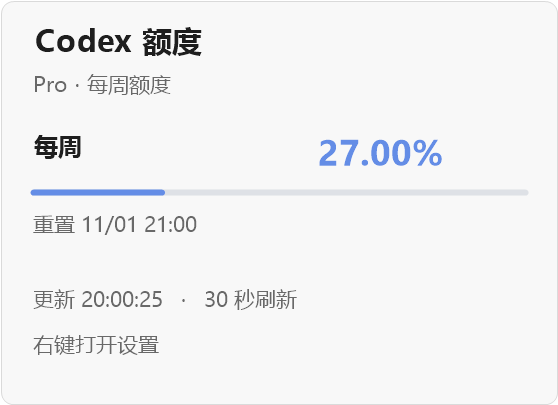
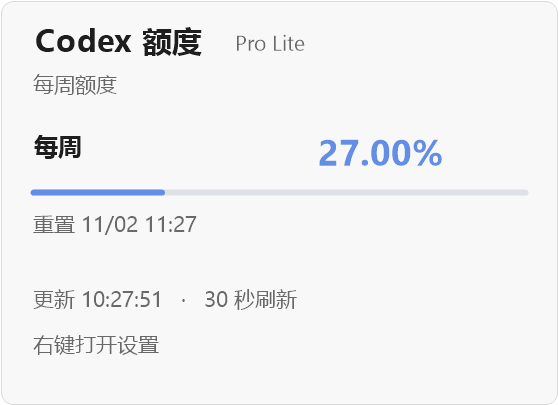
Release native quota bar 0.2.2

diff --git a/scripts/github-release.py b/scripts/github-release.py
@@ -1,6 +1,6 @@
 """Publish a frozen tag and assets via existing Git credential helper; never logs credentials.
 
-Usage: python scripts/github-release.py v0.2.1 <commit> <setup> <zip> <sha256-file>
+Usage: python scripts/github-release.py v0.2.2 <commit> <setup> <zip> <sha256-file>
 The tag must already exist on origin. Does not overwrite a published release.
 """
 import json
@@ -16,7 +16,7 @@ REPO = "SaturdayF/codex-quota-bar"
 
 def main():
     tag, commit, *paths = sys.argv[1:]
-    if tag != "v0.2.1":
+    if tag != "v0.2.2":
         raise RuntimeError("Only the current native version can be published")
     env = dict(os.environ, GIT_TERMINAL_PROMPT="0", GCM_INTERACTIVE="never")
     credential = subprocess.run(["git", "-c", f"safe.directory={ROOT.as_posix()}", "credential", "fill"],
@@ -34,18 +34,23 @@ def main():
         with request.urlopen(request.Request(url, data=body, headers=headers, method=method), timeout=180) as response:
             payload = response.read()
             return json.loads(payload) if payload else None
-    if tag == "v0.2.1":
-        allowed = {"CodexQuotaBar-v0.2.1-Setup.exe", "CodexQuotaBar-v0.2.1-Portable-win-x64.zip", "SHA256SUMS.txt"}
+    if tag == "v0.2.2":
+        tagged = api(f"/repos/{REPO}/git/ref/tags/{tag}")["object"]
+        while tagged["type"] == "tag":
+            tagged = api(f"/repos/{REPO}/git/tags/{tagged['sha']}")["object"]
+        if tagged["type"] != "commit" or tagged["sha"] != commit:
+            raise RuntimeError("Release tag does not point to the expected source commit")
+        allowed = {"CodexQuotaBar-v0.2.2-Setup.exe", "CodexQuotaBar-v0.2.2-Portable-win-x64.zip", "SHA256SUMS.txt"}
         if {Path(path).name for path in paths} != allowed:
             raise RuntimeError("Native release requires exact installer, ZIP and checksum asset set")
-        body = (ROOT / "docs/releases/v0.2.1.md").read_text(encoding="utf-8").replace("{SOURCE_COMMIT}", commit)
+        body = (ROOT / "docs/releases/v0.2.2.md").read_text(encoding="utf-8").replace("{SOURCE_COMMIT}", commit)
         try:
             release = api(f"/repos/{REPO}/releases/tags/{tag}")
         except error.HTTPError as exc:
             if exc.code != 404:
                 raise
             release = api(f"/repos/{REPO}/releases", {"tag_name": tag, "target_commitish": commit,
-                "name": "Codex Quota Bar 0.2.1 · Native", "body": body, "draft": True, "prerelease": False})
+                "name": "Codex Quota Bar 0.2.2 · Native", "body": body, "draft": True, "prerelease": False})
         if release["target_commitish"] != commit:
             raise RuntimeError("Native release commit does not match")
         expected = {}
@@ -71,7 +76,9 @@ def main():
             verified = api(f"/repos/{REPO}/releases/{release['id']}", {"draft": False}, "PATCH")
         snapshot = {"url": verified["html_url"], "tag": tag, "commit": commit, "draft": verified["draft"],
             "assets": [{k: a[k] for k in ("name", "size", "digest")} for a in verified["assets"]]}
-        (ROOT / "codex_tmp/ui-021/github-release.json").write_text(json.dumps(snapshot, indent=2), encoding="utf-8")
+        snapshot_dir = ROOT / "codex_tmp/releases" / tag
+        snapshot_dir.mkdir(parents=True, exist_ok=True)
+        (snapshot_dir / "github-release.json").write_text(json.dumps(snapshot, indent=2), encoding="utf-8")
         print("Published and SHA256 verified", verified["html_url"], flush=True)
         return
 

diff --git a/native/settings.cpp b/native/settings.cpp
@@ -297,7 +297,7 @@ void SettingsWindow::draw(HDC dc, bool inner) {
             SolidBrush b(side);
             g.FillRectangle(&b, RectF(0, 0, 196, float(rect.bottom / d)));
             drawUiText(g, L"设置", RectF(26, 22, 150, 44), 27, ink, true);
-            drawUiText(g, L"Codex Quota Bar\n0.2.1", RectF(24, rect.bottom / d - 80, 155, 58), 14, muted);
+            drawUiText(g, L"Codex Quota Bar\n" + std::wstring(Version), RectF(24, rect.bottom / d - 80, 155, 58), 14, muted);
             Pen line(light ? Color(255, 235, 235, 235) : Color(255, 55, 55, 55));
             g.DrawLine(&line, 218.f, rect.bottom / d - 78, rect.right / d - 28, rect.bottom / d - 78);
         } else {

diff --git a/native/core.hpp b/native/core.hpp
@@ -33,8 +33,8 @@ namespace quota {
 using json = nlohmann::json;
 namespace fs = std::filesystem;
 using namespace Gdiplus;
-constexpr wchar_t Version[] = L"0.2.1";
-constexpr char VersionUtf8[] = "0.2.1";
+constexpr wchar_t Version[] = L"0.2.2";
+constexpr char VersionUtf8[] = "0.2.2";
 constexpr UINT StateMessage = WM_APP + 1, SettingsMessage = WM_APP + 2, RebuildMessage = WM_APP + 3;
 std::wstring wide(const std::string &s);
 std::string utf8(const std::wstring &s);

diff --git a/scripts/package-native.py b/scripts/package-native.py
@@ -4,7 +4,7 @@ from pathlib import Path
 import zipfile
 
 ROOT = Path(__file__).resolve().parent.parent
-VERSION = "0.2.1"
+VERSION = "0.2.2"
 payload = ROOT / "artifacts/native-win-x64"
 release = ROOT / "artifacts/releases" / f"v{VERSION}"
 release.mkdir(parents=True, exist_ok=True)

diff --git a/AGENTS.md b/AGENTS.md
@@ -2,7 +2,7 @@
 
 - `v0.1.0` is the original frozen source baseline. Do not move that tag. The user subsequently explicitly requested a directory-selectable installer and smaller ZIP within the same 0.1.0 Release, authorizing republishing its download assets. Track this installer supplement with a separate source tag and preserve the original tag/history.
 - After the explicitly authorized 0.1.0 installer supplement, subsequent changes use new version tags. Preserve both source tags; replace release downloads only at the user's explicit request.
-- Current 0.2.1 runtime is native C++ in `native/`; core/UI checks are in `native/tests.cpp`, installer checks in `tests/NativeInstaller.Tests.ps1`. Legacy C# sources, tests, scripts and discarded icon concepts were removed in 0.2.1; recover them from the frozen historical tags when needed. Keep useful continuation notes under `codex_tmp/`, ignored by Git.
+- Current 0.2.2 runtime is native C++ in `native/`; core/UI checks are in `native/tests.cpp`, installer checks in `tests/NativeInstaller.Tests.ps1`. Legacy C# sources, tests, scripts and discarded icon concepts were removed in 0.2.1; recover them from the frozen historical tags when needed. Keep useful continuation notes under `codex_tmp/`, ignored by Git.
 - Keep `assets/app.svg`, PNG, ICO and embedded application branding consistent. The approved icon is E: white background, interlocked large green ring and smaller blue ring with gray remainder arcs, without Q tail.
 - Never test uninstallation by deleting the user's installed app. Use a disposable fixture and `-WhatIf`; preserve the installed runtime and settings unless the user explicitly asks to uninstall them.
 - Verify all native UI or taskbar changes on available screens with `--self-test`, appropriate integration checks and rendered previews. Clearly distinguish simulated preview quotas from real account data.

diff --git a/docs/releases/v0.2.2.md b/docs/releases/v0.2.2.md
@@ -1,0 +1,16 @@
+# Codex Quota Bar 0.2.2
+
+任务栏显示修复与额度选择更新，仍为无需 .NET 或额外 C++ 运行库的 Windows x64 原生应用。
+
+- 修复打开 Windows 快速设置时额度图标被任务栏遮挡，任务栏重建后自动恢复。
+- 悬浮详情标题右侧显示当前套餐，补齐 Pro Lite / Pro Max 等类型识别。
+- 新增独立的 5 小时、周额度显示开关，同步影响任务栏、悬浮详情与预览。
+- 默认 Plus 显示两项，Pro 系列仅显示周额度；支持恢复套餐默认。两项关闭时隐藏组件，仍可通过设置快捷方式重新打开。
+- 切换“在图标上展示余量”时重播预览动画，遵循样式与系统动画设置。
+- 沿用现有设置；手动开启但账户未返回的额度显示 `--`。
+
+提供可选择安装路径的 Setup.exe、解压即用的 Portable ZIP，以及 SHA256SUMS.txt。程序尚未代码签名。
+
+验证：362 项原生核心检查、95 项 UI 检查、隔离的中文/空格自定义路径安装与卸载、ZIP 内容及 PE 系统依赖检查。UI 测试与文档插图均使用模拟额度；本机仅验证已连接屏幕，Windows 快速设置真实面板及其他任务栏形态仍需手动回归。
+
+源码提交：`{SOURCE_COMMIT}`。保留旧标签及下载，本次发布使用新标签 `v0.2.2`。

diff --git a/docs/DEVELOPMENT.md b/docs/DEVELOPMENT.md
@@ -64,7 +64,7 @@ enterprise, edu, edu_plus, edu_pro, sci, sci_plus, unknown
 powershell.exe -NoProfile -ExecutionPolicy Bypass -File tests/NativeInstaller.Tests.ps1
 ```
 
-生成 `artifacts/releases/v0.2.1` 中的 Setup EXE、Portable ZIP 和 SHA256SUMS.txt。测试真实安装到带中文和空格的独立目录，再执行原生卸载，检查保留无关文件；`/ISOLATEDTEST=1` 禁止修改用户启动项、快捷方式、卸载注册项、设置和既有监听器。绝不对用户真实安装运行卸载测试。
+生成 `artifacts/releases/v0.2.2` 中的 Setup EXE、Portable ZIP 和 SHA256SUMS.txt。测试真实安装到带中文和空格的独立目录，再执行原生卸载，检查保留无关文件；`/ISOLATEDTEST=1` 禁止修改用户启动项、快捷方式、卸载注册项、设置和既有监听器。绝不对用户真实安装运行卸载测试。
 
 0.2.0 默认使用自己的版本目录，不把旧 .NET 目录混入新负载。旧安装目录保留，设置继续使用 `%LOCALAPPDATA%/CodexQuotaBar/settings.json`。安装版设置中的卸载按钮只认同目录、相同产品与版本的 Inno 卸载器，启动前再次确认。卸载旧安装前退出程序；旧卸载器可能清理共用的启动项，可在新版本中重新启用。
 

diff --git a/CHANGELOG.md b/CHANGELOG.md
@@ -1,6 +1,6 @@
 # 版本记录
 
-## 未发布
+## 0.2.2 — 2026-11-02
 
 - 常规设置新增独立的 5 小时 / 周额度显示开关，可恢复套餐默认；选择同步影响任务栏、详情与预览，两项均关闭时隐藏组件。
 - 切换“在图标上展示余量”时重播预览动画，遵循当前样式的动画开关与系统动画设置。
